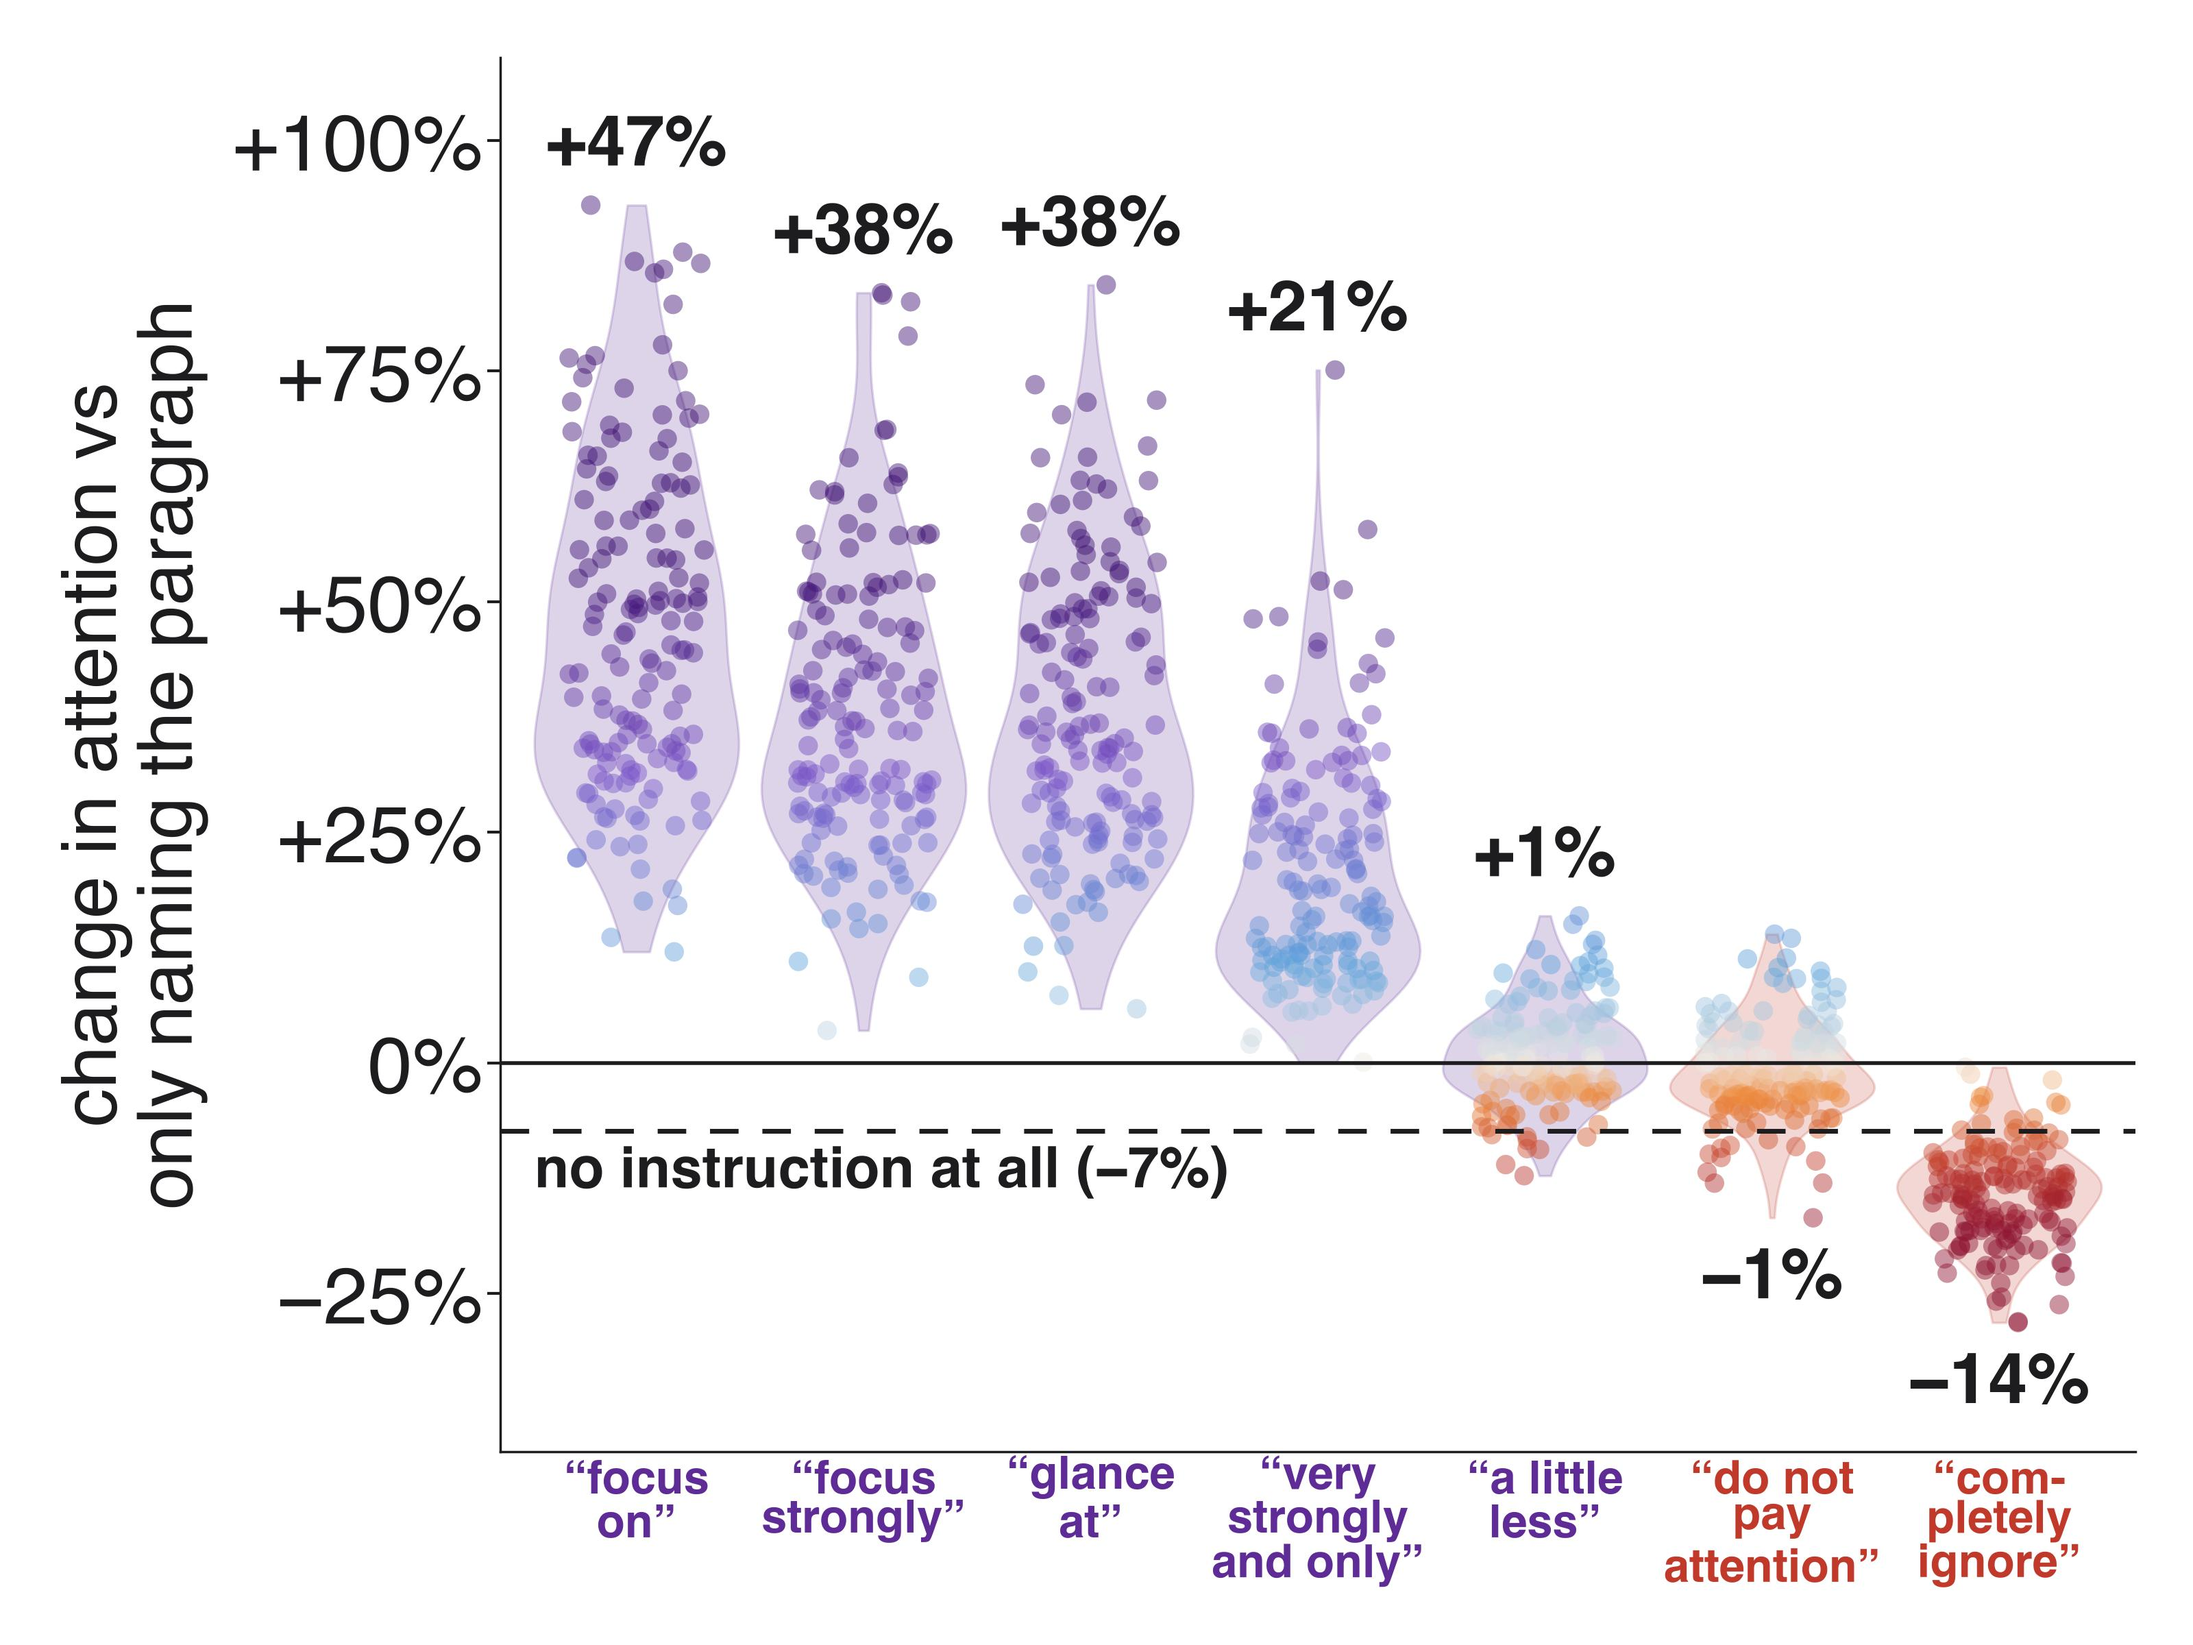
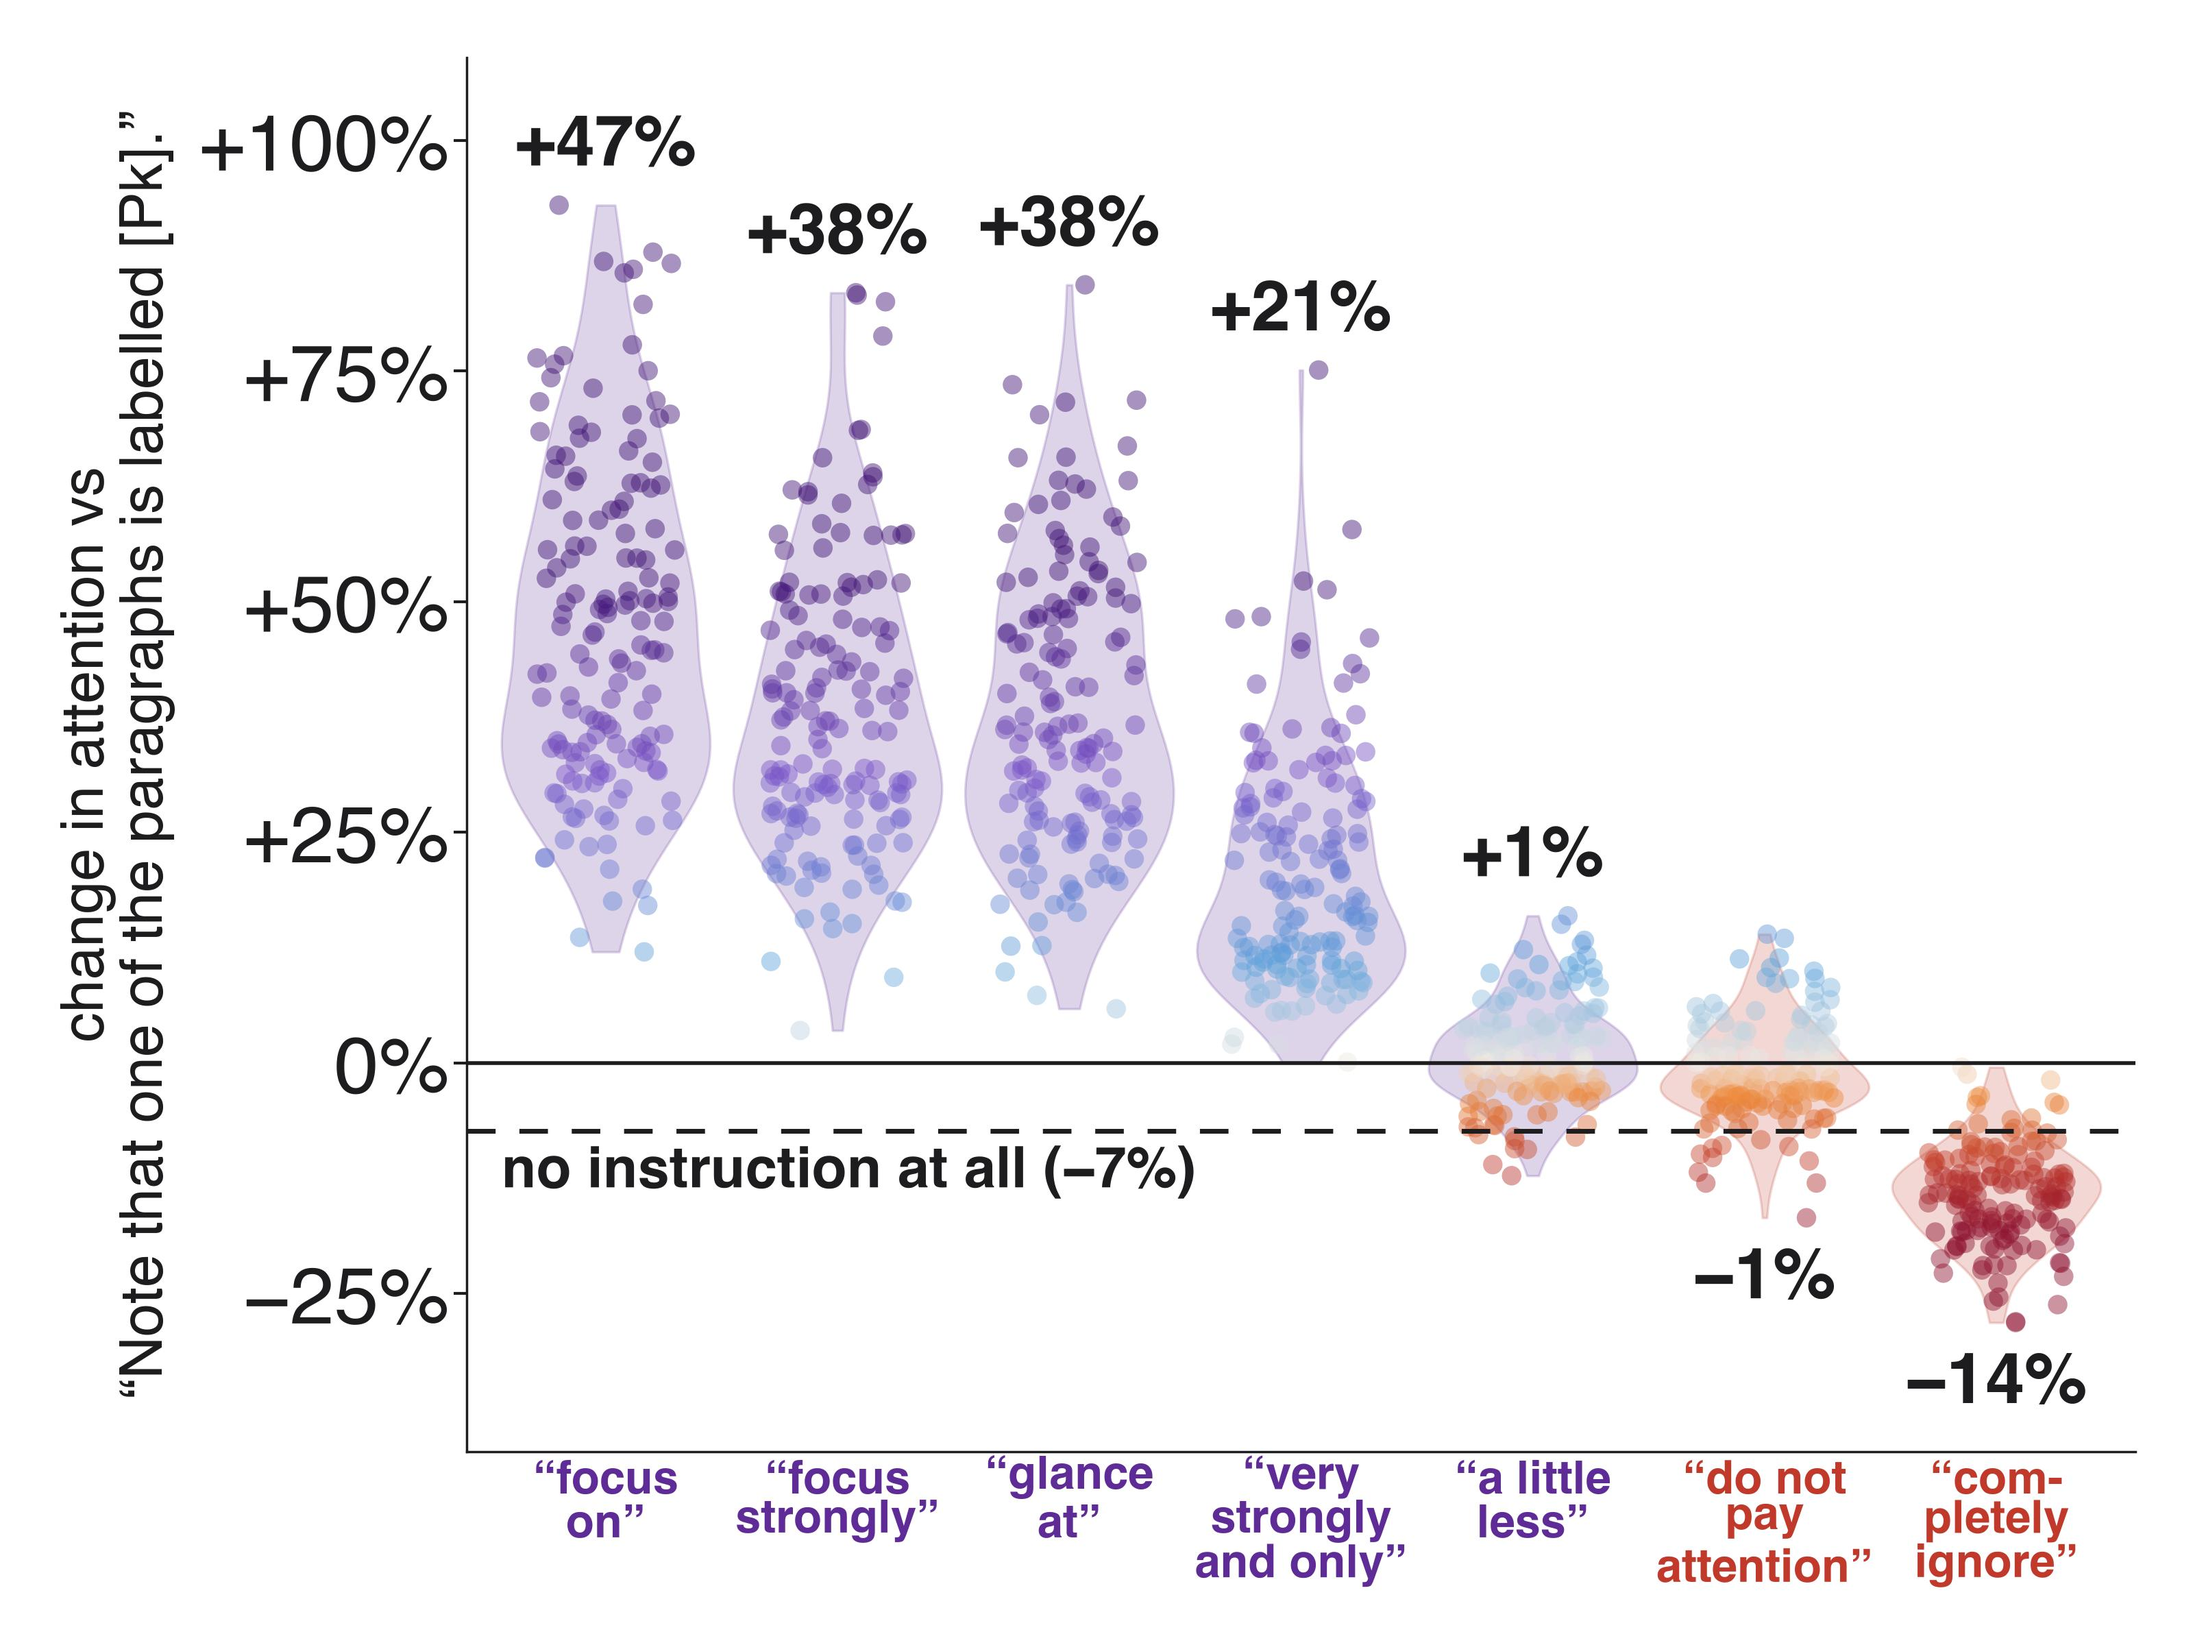
Ladder: quote the control prompt on the y axis

diff --git a/results/qwen3-32b-dose/dose_fig.py b/results/qwen3-32b-dose/dose_fig.py
@@ -33,7 +33,7 @@ a.set_xlim(-0.6, len(CS) - 0.4); a.set_ylim(allz.min() - 14, allz.max() + 16)
 yt = [-25, 0, 25, 50, 75, 100]
 yt = [t for t in yt if allz.min() - 14 <= t <= allz.max() + 16]
 a.set_yticks(yt); a.set_yticklabels([MN(f"{t:+d}%") if t else "0%" for t in yt])
-a.set_ylabel("change in attention vs\nonly naming the paragraph", fontsize=80, labelpad=24)
+a.set_ylabel("change in attention vs\n“Note that one of the paragraphs is labelled [Pk].”", fontsize=62, labelpad=24)
 for s in ["top", "right"]: a.spines[s].set_visible(False)
 a.spines["left"].set_linewidth(2.5); a.spines["bottom"].set_linewidth(2.5); a.tick_params(width=3, length=14, labelsize=84); a.tick_params(axis="x", length=0, labelsize=48)
 fig.tight_layout(); fig.savefig(OUT + "dose.png", dpi=100, facecolor="white"); fig.savefig(OUT + "dose.jpg", dpi=100, facecolor="white")
